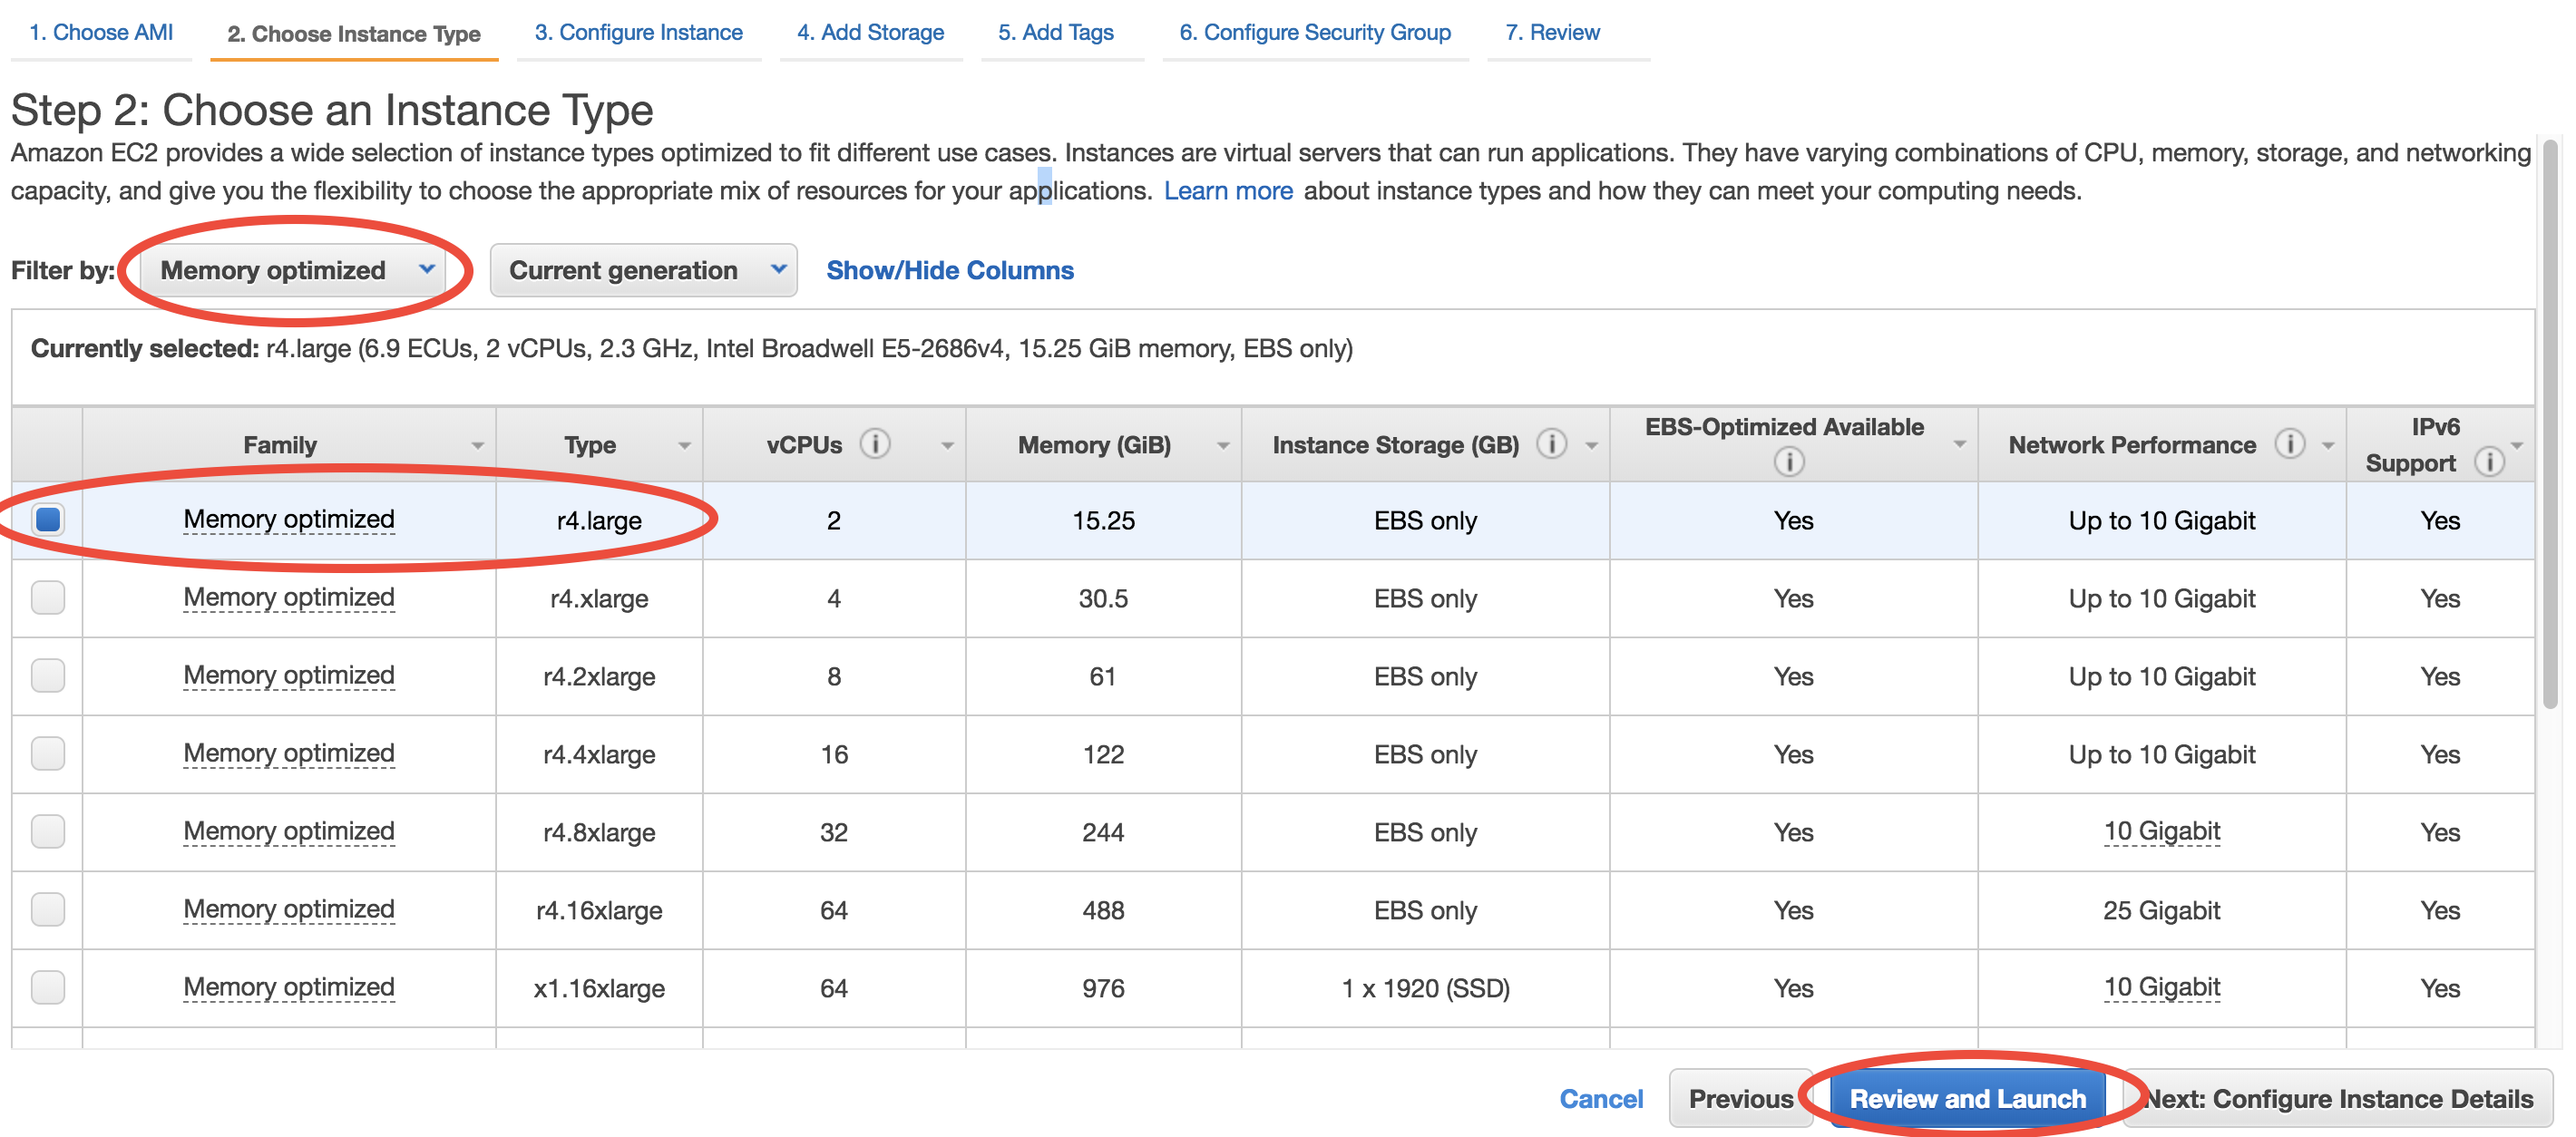
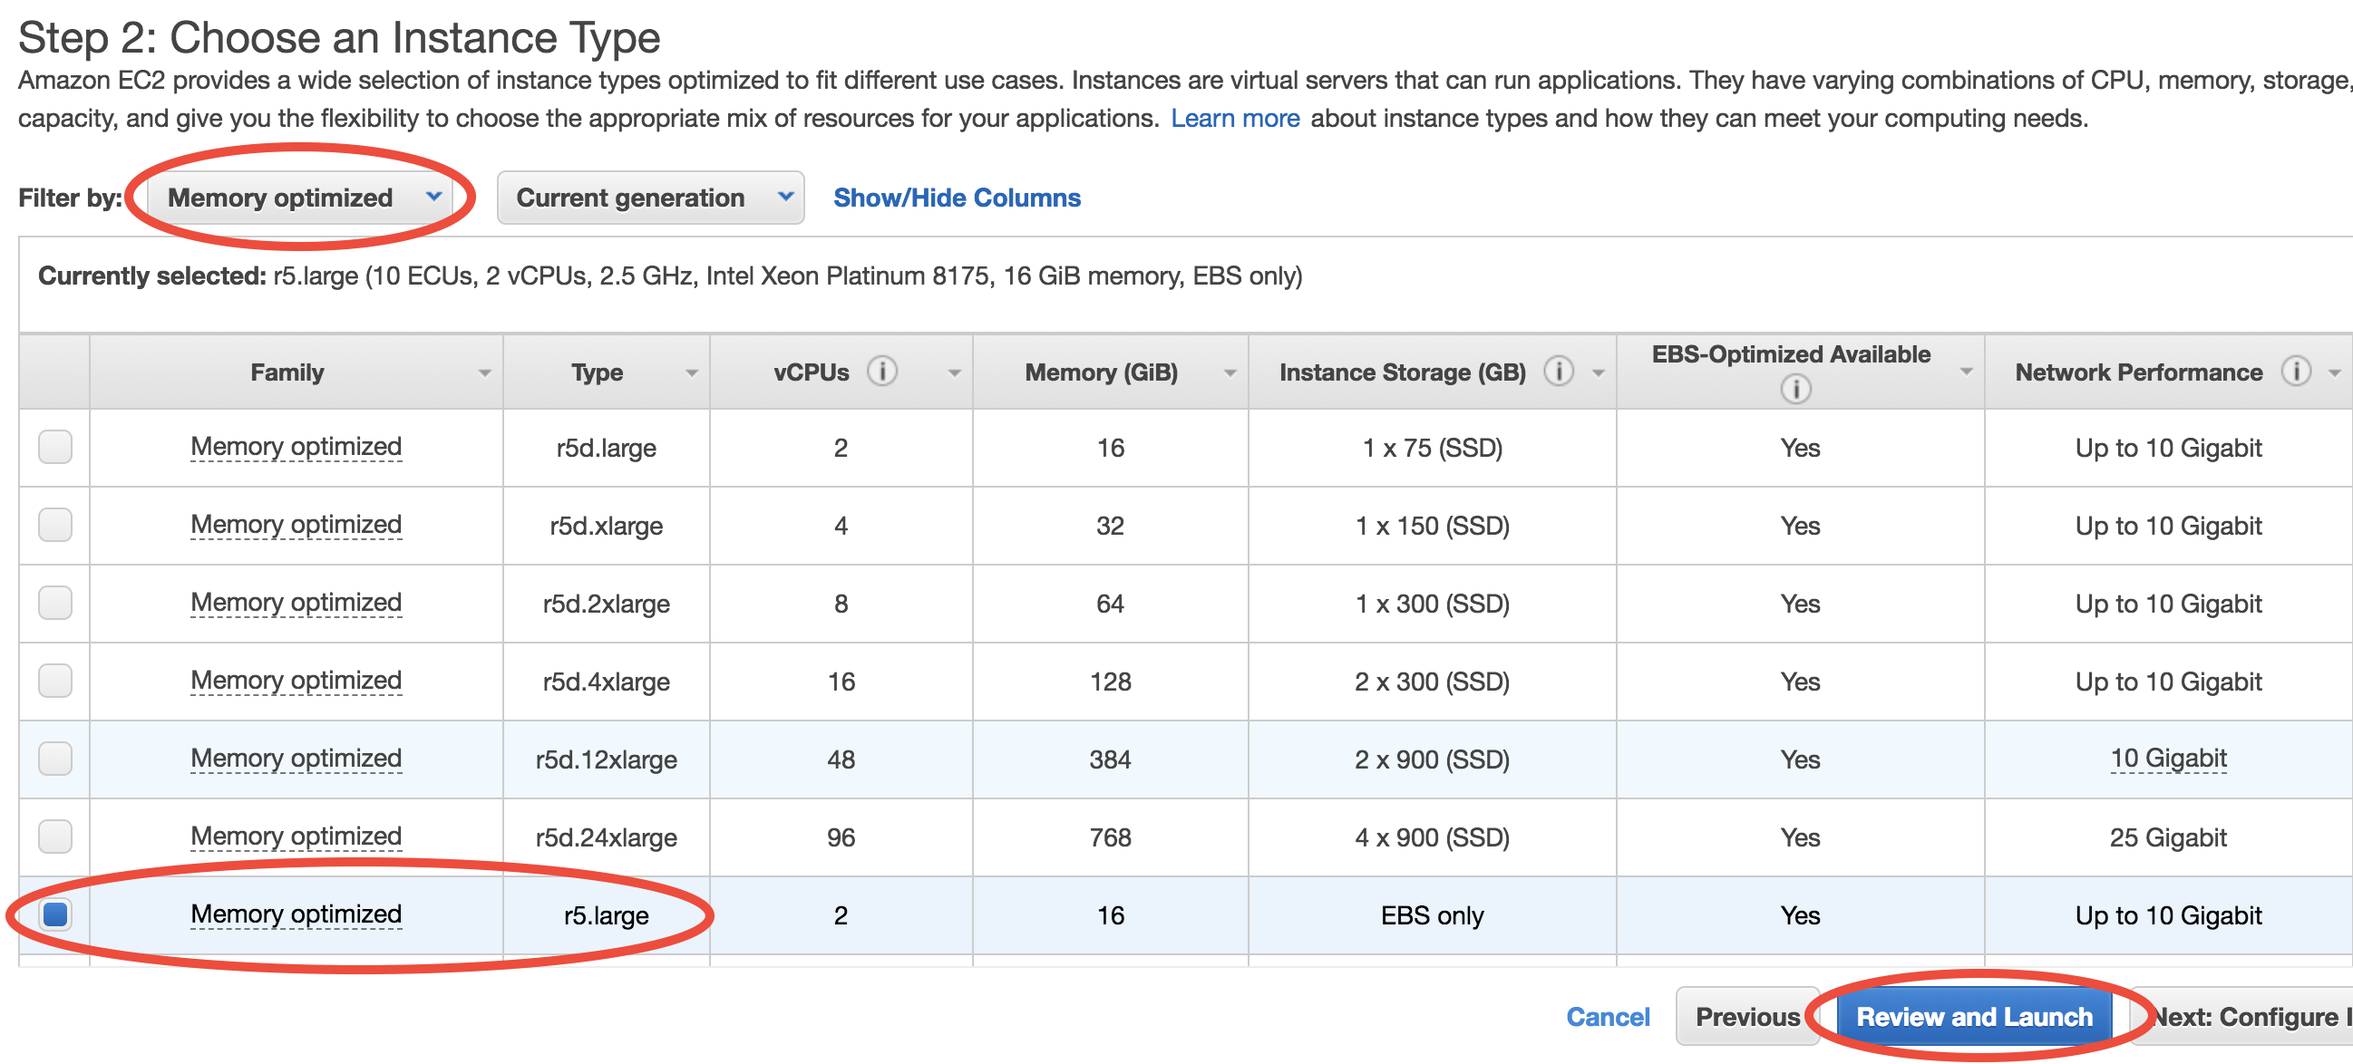
Update docs for 12.0.1

diff --git a/doc/source/chapter02_beginner-tutorial/quick-start.rst b/doc/source/chapter02_beginner-tutorial/quick-start.rst
@@ -4,8 +4,8 @@ Quick start guide for new users
 ===============================
 
 
-Step 1: Sign up an Amazon Web Service(AWS) account
---------------------------------------------------
+Step 1: Sign up an Amazon Web Service (AWS) account
+---------------------------------------------------
 
 Go to http://aws.amazon.com, click on "Create an AWS account" on the upper-right corner:
 
@@ -33,7 +33,7 @@ In the EC2 console, make sure you are in the **US East (N. Virginia)** region as
 .. figure:: img/region_list.png
   :width: 300 px
 
-In the EC2 console, click on "AMI" (Amazon Machine Image) under "IMAGES" on the left navigation bar. Then select "Public images" and search for **ami-ab925cd6** or **GEOSChem_tutorial_20180316** – that's the system with GEOS-Chem installed. Select it and click on "Launch".
+In the EC2 console, click on "AMI" (Amazon Machine Image) under "IMAGES" on the left navigation bar. Then select "Public images" and search for **ami-08c83a8b3ebd20b63** or **GEOSChem_tutorial_20180926** – that's the system with GEOS-Chem installed. Select it and click on "Launch".
 
 .. figure:: img/search_ami.png
 
@@ -41,7 +41,7 @@ In the EC2 console, click on "AMI" (Amazon Machine Image) under "IMAGES" on the 
 
 You have already specified your operating system, or the "software" side of the virtual server. Then it's time to specify the "hardware" side, mostly about CPUs.
 
-In this toy example, choose "Memory optimized"-"r4.large" to test GEOS-Chem with the minimum fee.
+In this toy example, choose "Memory optimized"-"r5.large" to test GEOS-Chem with the minimum fee.
 
 .. figure:: img/choose_instance_type.png
 
@@ -107,20 +107,21 @@ Or you can re-compile the model on your own::
 
 Congratulations! You’ve just done a GEOS-Chem simulation on the cloud, without spending any time on setting up your own server, configuring software environment, and preparing model input data!
 
-The default simulation length is only 20 minutes, for demonstration purpose. The "r4.large" instance type we chose has only a single, slow core (so it is cheap, just ~$0.1/hour), while its memory is large enough for GEOS-Chem to start. For serious simulations, it is recommended to use "Compute Optimized" instance types with multiple cores such as "c5.4xlarge".
+The default simulation length is only 20 minutes, for demonstration purpose. The "r5.large" instance type we chose has only a single, slow core (so it is cheap, just ~$0.1/hour), while its memory is large enough for GEOS-Chem to start. For serious simulations, it is recommended to use "Compute Optimized" instance types with multiple cores such as "c5.4xlarge".
 
 .. note::
   The first simulation on a new server will have slow I/O and library loading because the disk needs "warm-up". Subsequent simulations will be much faster.
 
-Note that this system is a **general environment** for GEOS-Chem, **not just a specific version of the model**. This pre-configured run directory in the "tutorial" folder is only for demonstration purpose. It uses `v11-02d <http://wiki.seas.harvard.edu/geos-chem/index.php/GEOS-Chem_v11-02#v11-02d>`_, which might not be the version you want for a serious scientific analysis. You can easily :doc:`switch to other versions <../chapter06_appendix/gc-version>`.
+Note that this system is a **general environment** for GEOS-Chem, **not just a specific version of the model**. This pre-configured run directory in the "tutorial" folder is only for demonstration purpose. It uses `12.0.1 <http://wiki.seas.harvard.edu/geos-chem/index.php/GEOS-Chem_12#12.0.1>`_, but it is can easily :doc:`switched to other versions <../chapter06_appendix/gc-version>` if you need.
 
 Step 4: Analyze output data with Python (Optional)
 --------------------------------------------------
 
-If you wait for the simulation to finish (takes 5~10 min), it will produce `NetCDF diagnostics <http://wiki.seas.harvard.edu/geos-chem/index.php/List_of_diagnostics_archived_to_netCDF_format>`_ called ``GEOSChem.inst.20130701.nc4``. There is also a pre-generated ``GEOSChem.inst.20130701_backup.nc4`` in the run directory, ready for you to analyze::
+If you wait for the simulation to finish (takes 5~10 min), it will produce `NetCDF diagnostics <http://wiki.seas.harvard.edu/geos-chem/index.php/List_of_diagnostics_archived_to_netCDF_format>`_ called ``GEOSChem.SpeciesConc.20130701.nc4``. To save time, you can also cancel the simulation and use the pre-generated file with the same name::
 
-  $ ncdump -h GEOSChem.inst.20130701_backup.nc4
-  netcdf GEOSChem.inst.20130701_backup {
+  $ cd OutputDir/
+  $ ncdump -h GEOSChem.SpeciesConc.20160701_0000z.nc4
+  netcdf GEOSChem.SpeciesConc.20160701_0000z {
   dimensions:
   	time = UNLIMITED ; // (1 currently)
   	lev = 72 ;
@@ -130,9 +131,10 @@ If you wait for the simulation to finish (takes 5~10 min), it will produce `NetC
   variables:
   	double time(time) ;
   		time:long_name = "Time" ;
-  		time:units = "minutes since 2013-07-01 00:00:00 UTC" ;
+      time:units = "minutes since 2016-07-01 00:00:00 UTC" ;
   		time:calendar = "gregorian" ;
   		time:axis = "T" ;
+  ...
 
 `Anaconda Python <https://www.anaconda.com/>`_ and `xarray <http://xarray.pydata.org>`_ are already installed on the server for analyzing all kinds of NetCDF files. If you are not familiar with Python and xarray, checkout my `Python/xarray tutorial for GEOS-Chem users <https://github.com/JiaweiZhuang/GEOSChem-python-tutorial>`_.
 
@@ -140,13 +142,13 @@ Activate the pre-installed `geoscientific Python environment <https://github.com
 
   $ source activate geo  # I also set a `act geo` alias
   $ ipython
-  Python 3.6.4 |Anaconda, Inc.| (default, Jan 16 2018, 18:10:19)
+  Python 3.6.6 |Anaconda, Inc.| (default, Jun 28 2018, 17:14:51)
   Type 'copyright', 'credits' or 'license' for more information
-  IPython 6.2.1 -- An enhanced Interactive Python. Type '?' for help.
+  IPython 6.5.0 -- An enhanced Interactive Python. Type '?' for help.
 
   In [1]: import xarray as xr
 
-  In [2]: ds = xr.open_dataset("GEOSChem.inst.20130701_backup.nc4")
+  In [2]: ds = xr.open_dataset('GEOSChem.SpeciesConc.20160701_0000z.nc4')
 
   In [3]: ds
   Out[3]:
@@ -167,6 +169,7 @@ To use Jupyter on remote servers, re-login to the server with port-forwarding op
 
 Then simply run ``jupyter notebook --NotebookApp.token='' --no-browser --port=8999``::
 
+  $ source activate geo
   $ jupyter notebook --NotebookApp.token='' --no-browser --port=8999
   [I 21:11:41.503 NotebookApp] Writing notebook server cookie secret to /run/user/1000/jupyter/notebook_cookie_secret
   [W 21:11:41.986 NotebookApp] All authentication is disabled.  Anyone who can connect to this server will be able to run code.
@@ -178,9 +181,9 @@ Then simply run ``jupyter notebook --NotebookApp.token='' --no-browser --port=89
 
 Visit ``http://localhost:8999/`` in your browser, you should see a Jupyter environment just like on local machines. The server contains an :doc:`example notebook <../chapter06_appendix/sample-python-code>` that you can just execute. It is located at::
 
-  ~/tutorial/python_example/plot_GC_data.ipynb
+  ~/tutorial/python_example/sample-python-code.ipynb
 
-Besides being a data analysis environment, Jupyter can also be used as a graphical text editor on remote servers so you don't have to use ``vim``/``emacs``/``nano``. The Jupyter console also allows you to download/upload data without using ``scp``.
+Besides being a data analysis environment, Jupyter can also be used as a graphical text editor on remote servers so you don't have to use ``vim``/``emacs``/``nano``. The Jupyter console also allows you to download/upload data without using ``scp``. The next generation of notebooks, namely `Jupyter Lab <https://jupyterlab.readthedocs.io>`_, is also installed. Just change the launching command from ``jupyter notebook ...`` to ``jupyter lab ...`` if you want to have a try.
 
 .. note::
   There are many ways to connect to Jupyter on remote servers. Port-forwarding is the easiest way, and is the only way that also works on local HPC clusters (which has much stricter firewalls than cloud platforms). The port number 8999 is just my random choice, to distinguish from the default port number 8888 for local Jupyter. You can use whatever number you like as long as it doesn't conflict with `existing port numbers <https://en.wikipedia.org/wiki/Port_(computer_networking)#Common_port_numbers>`_.

diff --git a/doc/source/chapter06_appendix/gc-version.rst b/doc/source/chapter06_appendix/gc-version.rst
@@ -1,39 +1,33 @@
 Set up proper GEOS-Chem version
 -------------------------------
 
-Our tutorial AMI uses `v11-02d <http://wiki.seas.harvard.edu/geos-chem/index.php/GEOS-Chem_v11-02#v11-02d>`_ as a demo but it is very easy to switch to a different version you want. No need to touch environment variables and library configurations. Any versions newer than `v11-02a <http://wiki.seas.harvard.edu/geos-chem/index.php/GEOS-Chem_v11-02#v11-02a>`_ should work smoothly. The system will still work with future releases of GEOS-Chem (e.g. v11-02 formal release), unless there are big structural changes that break the compile process.
+Switching the model version is easy. No need to touch environment variables and library configurations. Any versions newer than `v11-02a <http://wiki.seas.harvard.edu/geos-chem/index.php/GEOS-Chem_v11-02#v11-02a>`_ should work smoothly. The system will still work with future releases of GEOS-Chem, unless there are big structural changes that break the compile process.
 
 I just put essential steps here for reference. Existing GEOS-Chem users should feel quite familiar. New users should refer to our `user guide <http://acmg.seas.harvard.edu/geos/doc/man/>`_ for the full instruction.
 
 Get source code and checkout model version
 ^^^^^^^^^^^^^^^^^^^^^^^^^^^^^^^^^^^^^^^^^^
 
-For now I use the "bleeding edge" repository::
-
-  git clone https://bitbucket.org/gcst/gc_bleeding_edge.git
-  git clone https://bitbucket.org/gcst/ut_bleeding_edge.git
-
 After v11-02 formal release, you might want to clone from the main repository::
 
-  git clone https://bitbucket.org/gcst/geos-chem.git
-  git clone https://bitbucket.org/gcst/geos-chem-unittest.git
+  git clone https://github.com/geoschem/geos-chem Code.12.0.1
+  git clone https://github.com/geoschem/geos-chem-unittest.git UT
 
 You may list all sub-versions (git tags) in chronological order::
 
   $ git log --tags --simplify-by-decoration --pretty="format:%ci %d"
-  2018-01-25 09:58:33 -0500  (tag: v11-02d-Run2, origin/master, origin/HEAD, master)
-  2017-12-21 16:53:01 -0500  (tag: v11-02d-Run1)
-  2017-12-06 18:07:17 -0500  (tag: v11-02d-prelim)
-  2017-12-01 14:48:35 -0500  (tag: v11-02d-Run0)
-  2017-09-11 15:50:37 -0400  (tag: v11-02c)
+  2018-08-22 16:57:08 -0400  (HEAD -> master, tag: 12.0.1, origin/master, origin/HEAD)
+  2018-08-09 16:59:22 -0400  (tag: 12.0.0)
+  2018-07-30 10:31:40 -0400  (tag: 12.0.0-1yr-bm, tag: 12.0.0-1mo-bm)
+  2018-06-21 10:04:24 -0400  (tag: v11-02-release-candidate, tag: v11-02-rc)
+  2018-05-11 16:31:42 -0400  (tag: v11-02f-1yr-Run1)
   ...
 
-If needed, checkout to a different version, say ``v11-02c``::
+If needed, checkout to a different version, say ``12.0.0``::
 
-  $ git checkout v11-02c
-  HEAD is now at 2b07df6... Avoid array out-of-bounds error in EMISSCARBON when complex SOA is off
+  $ git checkout 12.0.0
   $ git branch
-  * (HEAD detached at v11-02c)
+  * (HEAD detached at 12.0.0)
 
 You need to do version checkout for both source code and unit tester.
 
@@ -42,7 +36,7 @@ Configure unit tester and generate run directory
 
 Here's how I set up the tutorial run directory, for reference.
 
-In ``ut_bleeding_edge/perl/CopyRunDirs.input``, change the default paths::
+In ``UT/perl/CopyRunDirs.input``, change the default paths::
 
   GCGRID_ROOT    : /n/holylfs/EXTERNAL_REPOS/GEOS-CHEM/gcgrid
   DATA_ROOT      : {GCGRIDROOT}/data/ExtData
@@ -53,10 +47,10 @@ In ``ut_bleeding_edge/perl/CopyRunDirs.input``, change the default paths::
 
 to::
 
-  GCGRID_ROOT    : /home/ubuntu/gcdata
+  GCGRID_ROOT    : /home/ubuntu
   DATA_ROOT      : {GCGRIDROOT}/ExtData
   ...
-  UNIT_TEST_ROOT : {HOME}/tutorial/ut_bleeding_edge
+  UNIT_TEST_ROOT : {HOME}/tutorial/UT
   ...
   COPY_PATH      : {HOME}/tutorial
 
@@ -70,7 +64,7 @@ In ``ut_bleeding_edge/perl/Makefile``, change the source code path::
 
 to::
 
-    CODE_DIR    :=$(HOME)/tutorial/gc_bleeding_edge
+    CODE_DIR    :=$(HOME)/tutorial/Code.$(VERSION)
 
 Running ``git status -v`` inside ``~/tutorial/ut_bleeding_edge`` will display all those modifications. 
 

diff --git a/doc/source/chapter06_appendix/aws-resources-for-gc.rst b/doc/source/chapter06_appendix/aws-resources-for-gc.rst
@@ -3,10 +3,11 @@ List of public AWS resources for GEOS-Chem
 
 Currently all resources are in us-east-1 (N. Virginia).
 
+Latest resources:
 +-------------------+------------------------+----------+----------------------------------+
 | Resource          | ID/name                | Size     | Content                          |
 +===================+========================+==========+==================================+
-|| Tutorial AMI     | ami-ab925cd6           | 70 GB    |                                  |
+|| Tutorial AMI     | ami-08c83a8b3ebd20b63  | 100 GB   |                                  |
 |                   |                        |          | 1. gfortran 5.4.0,               |
 |                   |                        |          |    netCDF-Fortran 4.4.3          |
 |                   |                        |          | 2. GC environment variables      |
@@ -24,4 +25,12 @@ Currently all resources are in us-east-1 (N. Virginia).
 +-------------------+------------------------+----------+----------------------------------+
 || S3 bucket for    | s3://gcgrid            | ~30 TB   | All current GEOS-Chem input data |
 || all GC data      | (requester-pay)        |          |                                  |
++-------------------+------------------------+----------+----------------------------------+
+
+Historical resources (for record):
++-------------------+------------------------+----------+----------------------------------+
+| Resource          | ID/name                | Size     | Content                          |
++===================+========================+==========+==================================+
+|| Older tutorial   | ami-ab925cd6           | 70 GB    | Same as tutorial AMI             |
+|| AMI              |                        |          | but uses v11-02d                 |
 +-------------------+------------------------+----------+----------------------------------+
